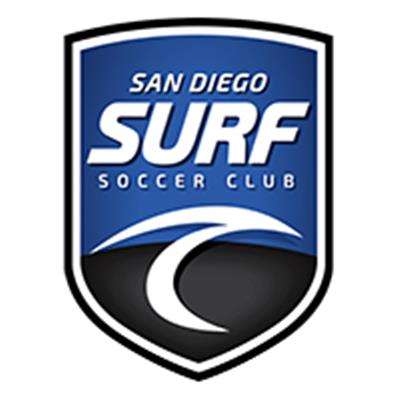
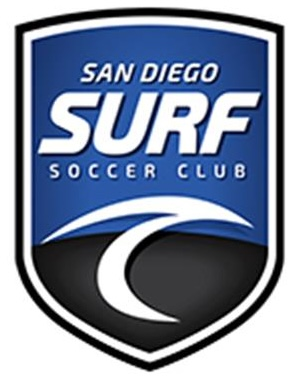
change a figure name

diff --git a/ecnl_b2012_ranking.html b/ecnl_b2012_ranking.html
@@ -225,7 +225,7 @@
       'LV Heat Surf ECNL B12': 'figures/LVheatsurf.png',
       'Pateadores ECNL B12': 'figures/Pats.png',
       'Rebels SC ECNL B12': 'figures/Rebels.png',
-      'San Diego Surf ECNL B12': 'figures/SanDiegoSurf.jpg',
+      'San Diego Surf ECNL B12': 'figures/SanDiegosurf.png',
       'SDSC Surf ECNL B12': 'figures/SDSCsurf.png',
       'Sporting California USA ECNL B12': 'figures/Sporting.png',
       'West Coast FC ECNL B12': 'figures/WC.png'
